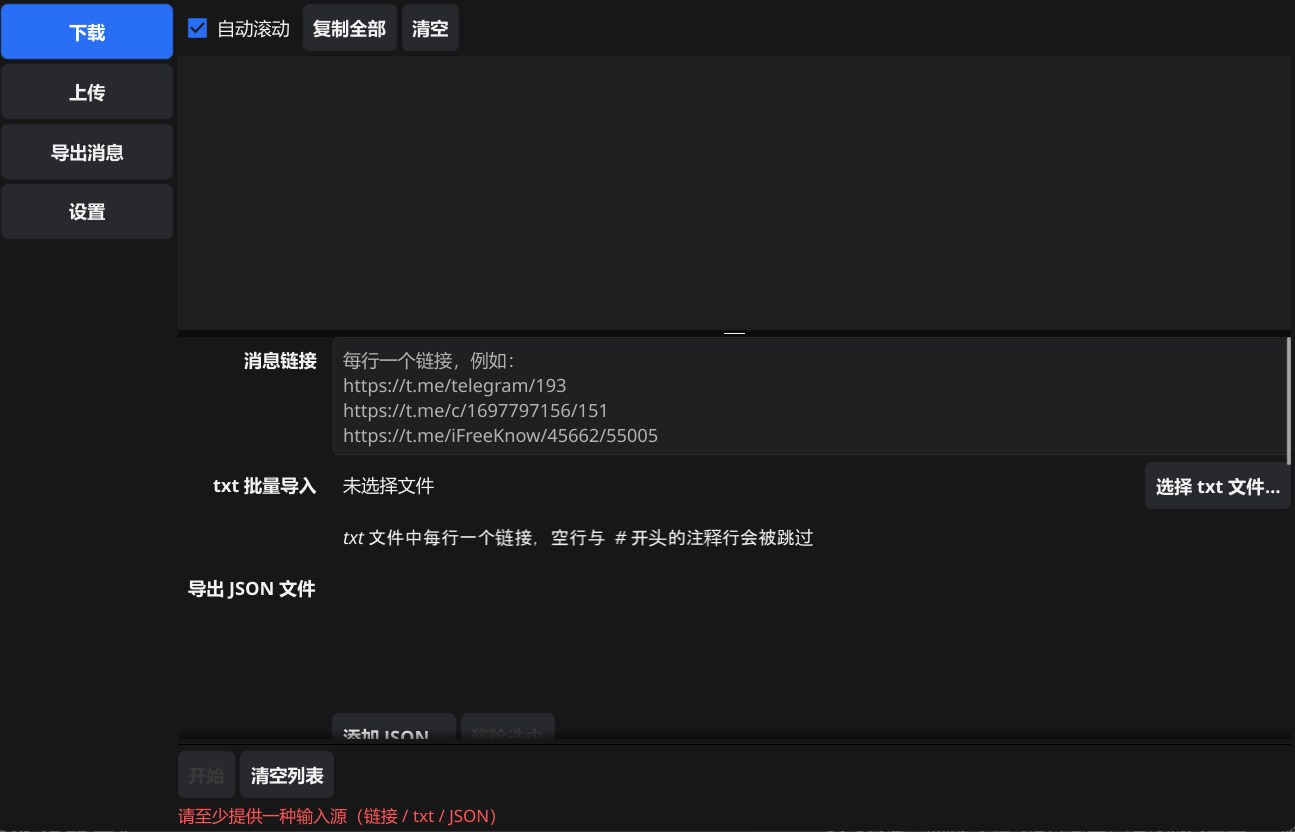
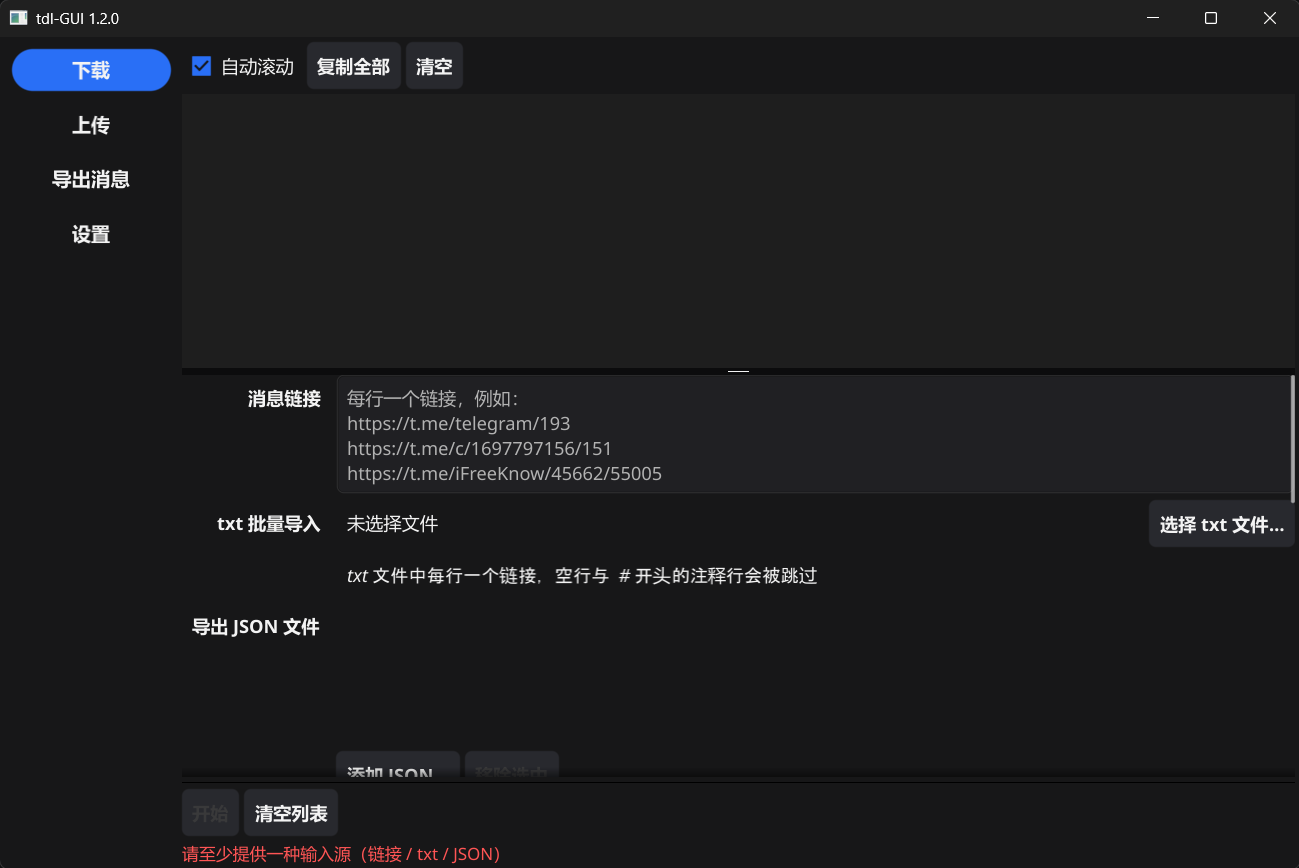
更新README

diff --git a/README_Eng.md b/README_Eng.md
@@ -1,0 +1,215 @@
+# tdl-GUI
+
+[简体中文](README.md) | [English](README_Eng.md)
+
+A **Windows desktop graphical front-end** for [tdl](https://github.com/iyear/tdl) (Telegram Downloader).
+
+This project reimplements none of tdl's functionality. It does exactly two things: **assembling the form fields into a tdl command**, and **running `tdl.exe` while echoing its output in real time**.
+
+> UI screenshots:
+> ![Download page](download_page_eng.png)
+> ![Upload page](upload_page_eng.png)
+> ![Export page](export_page_eng.png)
+
+> **Platform limitation**: Windows only. The program relies on Windows-specific features such as `CREATE_NO_WINDOW`, `CREATE_NEW_CONSOLE` and `taskkill`, so other platforms are not supported for now.
+
+## Table of Contents
+
+- [tdl-GUI](#tdl-gui)
+  - [Table of Contents](#table-of-contents)
+  - [Overview](#overview)
+  - [Quick Start](#quick-start)
+    - [1. Prepare tdl.exe](#1-prepare-tdlexe)
+    - [2. Launch tdl-GUI](#2-launch-tdl-gui)
+    - [3. Configure tdl.exe](#3-configure-tdlexe)
+    - [4. Log In to Your Account](#4-log-in-to-your-account)
+    - [5. Download Files](#5-download-files)
+    - [6. Upload Files](#6-upload-files)
+    - [7. Export Messages](#7-export-messages)
+    - [8. Running and Aborting](#8-running-and-aborting)
+  - [Based on the tdl Project](#based-on-the-tdl-project)
+  - [Language and Technology Stack](#language-and-technology-stack)
+  - [Application Architecture](#application-architecture)
+  - [Features at a Glance](#features-at-a-glance)
+  - [Building from Source](#building-from-source)
+  - [FAQ](#faq)
+  - [Disclaimer and Acknowledgements](#disclaimer-and-acknowledgements)
+
+## Overview
+
+- **No need to memorize command lines**: downloads, uploads, message exports, login and global parameters are all configured through the GUI.
+- **Real-time log**: a black terminal-style log pane that streams tdl output line by line; supports in-place refresh of `\r` progress lines, correct alignment of CJK / full-width characters, and red highlighting for errors (buffer capped at 5000 lines).
+- **Controllable tasks**: one-click **[Abort]** (kills the whole process tree), global controls locked while a task is running, confirmation before closing the window during a task, and a 5-second watchdog warning on abort.
+- **Input validation**: when input is invalid, the **[Start]** button is disabled and the reason is shown in red; the UI and the final command share exactly the same validation logic.
+- **Persisted configuration**: global parameters and form tuning options are saved automatically; the target scope of unfinished tasks (links, file lists, etc.) is deliberately not restored, so nothing is run by accident on the next launch.
+- **Command echo**: the full command is printed to the log pane before execution, with the login password masked as `***`.
+
+## Quick Start
+
+### 1. Prepare tdl.exe
+
+Download the Windows build from <https://github.com/iyear/tdl/releases> and extract it to any directory (version 0.20.4, or something close to it, is recommended).
+
+### 2. Launch tdl-GUI
+
+Double-click `tdl-gui.exe`. On first launch the app automatically switches to the **[Settings]** page and prompts you to choose the `tdl.exe` path.
+
+### 3. Configure tdl.exe
+
+Go to the **[Settings]** page → Global Parameters → click Browse to select the `tdl.exe` path → click `[Test]`. If the tdl version information appears in the log pane, the setup works.
+
+### 4. Log In to Your Account
+
+**[Settings]** page → Login Management → click `[Login]`; the program opens a new terminal window:
+
+- In that window, use the arrow keys to select the account to log in with;
+- Only the Telegram desktop client method is supported, and the client must come from the official Telegram website (not the app-store version);
+- After logging in, enter the namespace you used into **[Current Namespace]** on the settings page.
+
+**Multiple accounts**: use a different namespace for each account (e.g. `acc1`, `acc2`); each namespace corresponds to an independent account/session.
+
+### 5. Download Files
+
+**[Download]** page: paste message links (one per line, both `https://t.me/...` and `tg://` are supported), or bulk-import from a txt / JSON file → set the download directory, thread count and concurrency → choose the resume strategy → click **[Start]**.
+
+Notes:
+
+- Choose **explicitly** between "resume" and "restart" for the resume strategy: in the default mode tdl asks interactively when it detects an unfinished task, and a GUI child process cannot provide input.
+- Enabling "rewrite extensions" rewrites extensions based on the file-header MIME type (for example, `.apk` may become `.zip`).
+- For large downloads, enabling Takeout mode is recommended to reduce the chance of hitting a flood wait.
+- txt import rules: one link per line; blank lines and lines starting with `#` are skipped.
+
+### 6. Upload Files
+
+**[Upload]** page: add files/directories → fill in the target chat (`-c`), and the topic ID as well if you want to post to a forum topic → optionally captions and extension filters → click **[Start]**.
+
+Notes: enabling "delete local files after upload" (`--rm`) is irreversible and requires a second confirmation before execution; "message routing" and "target chat/topic" are mutually exclusive.
+
+### 7. Export Messages
+
+**[Export]** page: fill in the target chat → choose the export type (by time / by message ID / latest N messages) and range → choose the output file → click **[Start]**.
+
+### 8. Running and Aborting
+
+- While a task is running, the log pane above streams the output in real time; clicking the red **[Abort]** button force-stops the task (killing the whole process tree).
+- Closing the window while a task is running asks for confirmation; once confirmed, the task is aborted automatically and the app exits.
+
+## Based on the tdl Project
+
+- All actual capabilities of this project are provided by [tdl](https://github.com/iyear/tdl); the GUI only assembles arguments and runs the process, and **contains no Telegram protocol implementation whatsoever**.
+- **You must provide `tdl.exe` yourself** (this project does not bundle it): download the Windows build from [tdl Releases](https://github.com/iyear/tdl/releases) and specify its path on the GUI settings page.
+- Command arguments and default values are aligned with **tdl 0.20.4** (such as `--reconnect-timeout 5m`, `--pool 8`, `--delay 0s`), and are appended automatically by this project when a task runs.
+- tdl subcommands currently covered: `login`, `dl`, `up`, `chat export`, `version`.
+
+> This project is a third-party front-end with no affiliation to the tdl maintainers; see the [Disclaimer](#disclaimer-and-acknowledgements) at the end for details.
+
+## Language and Technology Stack
+
+| Item | Details |
+| --- | --- |
+| Language | Go 1.27.1 |
+| GUI framework | [Fyne](https://fyne.io/) v2.8.1 (native OpenGL window, not a WebView) |
+| Other dependencies | [mattn/go-runewidth](https://github.com/mattn/go-runewidth) (wide-character column width calculation in the log pane) |
+| Configuration storage | Fyne Preferences; on Windows usually `%AppData%\fyne\tdl-gui\preferences.json` |
+| Supported platform | Windows only |
+
+## Application Architecture
+
+```
+tdl-GUI/
+├── main.go                      Entry point: create the Fyne App, build the window, enter the event loop
+├── internal/
+│   ├── ui/                      UI layer (the only layer that depends on Fyne)
+│   │   ├── app.go               Main window, left navigation, log/page split, first-launch guide, close interception
+│   │   ├── task.go              Task state machine: start/abort/exit code, global control lock, abort watchdog
+│   │   ├── logview.go           Terminal-style log pane: streaming output, progress-line overwrite, wide-char alignment, copy/clear
+│   │   ├── page_download.go     Download page
+│   │   ├── page_upload.go       Upload page
+│   │   ├── page_export.go       Message export page
+│   │   └── page_settings.go     Settings page (UI language + global parameters + login management)
+│   ├── cmdgen/                  Form structs → tdl command-line arguments, including all input validation (zero GUI dependencies)
+│   ├── runner/                  Child process lifecycle: start, stdout/stderr parsing, ANSI stripping, abort process tree
+│   ├── store/                   Fyne Preferences wrapper, key naming convention `<page>.<field>`
+│   ├── i18n/                    Localization (the Chinese text is the key; locales/*.json provides translations)
+│   └── txtload/                 txt link-list parsing (tdl's native `-f` accepts JSON only)
+└── go.mod
+```
+
+Layering and call relationships:
+
+```
+ui ──┬─► cmdgen   build command + validate
+     ├─► runner   start process / parse output stream / abort
+     ├─► store    read and write configuration
+     └─► txtload  parse txt link files
+```
+
+Key design decisions:
+
+- **Single source of validation**: the enabled state of UI controls and the final executed command are produced by the same build function in `cmdgen`, avoiding the mismatch where the UI allows something the command rejects.
+- **Process-level integration**: tdl's source is neither modified nor wrapped; only `tdl.exe` is run. stdout and stderr are merged and parsed, treating `\r` as a progress refresh and `\n` as a complete line.
+- **Abort means killing the tree**: the whole process tree is ended with `taskkill /T /F`, falling back to a forced kill on failure, with a 5-second watchdog warning.
+- **Special handling for login**: `tdl login` needs interactive input, so the program runs it in a real terminal window via the Windows `CreateProcess` + `CREATE_NEW_CONSOLE`.
+- **Input length protection**: a single download is capped at 800 links to avoid hitting the Windows command-line length limit (about 32K).
+
+## Features at a Glance
+
+| Module | Capabilities |
+| --- | --- |
+| Download `dl` | Multiple links / txt bulk import / JSON file import; download directory, threads, concurrency; resume strategy (default / resume / restart); extension whitelist and blacklist; filename template; album grouping, skip same-name files, Takeout, HTTP serve mode |
+| Upload `up` | Bulk upload of files or directories; target chat and forum topic; message routing; captions; extension filtering; delete local files after upload (with a second confirmation); photo mode |
+| Export `chat export` | Three export types (by time / by message ID / latest N messages) with ranges; filter expressions; attached content / export everything / raw structure |
+| Login `login` | Desktop-client login (choose the account with arrow keys in a new terminal window); multiple accounts managed through namespaces (`-n`), where each namespace is an independent account |
+| Settings | UI language (follow system / Simplified Chinese / English, **takes effect after restart**), tdl.exe path, current namespace, proxy, NTP server, reconnect timeout, DC connection pool, delay between tasks, storage, debug mode, disable progress telemetry; the `[Test]` button runs `tdl version` to verify availability |
+
+## Building from Source
+
+Requirements: Windows + Go 1.27.1 or later.
+
+```powershell
+go build -ldflags "-H windowsgui -s -w -X main.version=x.y.z" -o tdl-gui.exe .
+```
+
+Flag reference:
+
+- `-H windowsgui`: start in the GUI subsystem so no extra console window appears;
+- `-s -w`: drop the symbol table and debug information to reduce the executable size;
+- `-X main.version=x.y.z`: inject the version number, shown in the window title `tdl-GUI <version>`; see `main.go`--version for the actual version number.
+
+Run the tests (some tests really start system commands, so they only work on Windows):
+
+```powershell
+go test ./...
+```
+
+> Note: `internal/runner/console_windows.go` depends on the Windows API and **cannot be compiled on other platforms**.
+
+## FAQ
+
+**Q: Do I need to install tdl separately?**
+Yes. This project does not include tdl itself; download `tdl.exe` yourself and specify its path on the settings page.
+
+**Q: Why are there no "account list / switch default account / logout" buttons?**
+The current tdl version (0.20.4) provides no such commands, so this page offers no such buttons. Use namespaces to switch between multiple accounts.
+
+**Q: Will tdl remember the global parameters from the settings page?**
+No. Global parameters such as proxy, NTP and connection pool are appended automatically by this application on every task run; they are not written into tdl's own configuration.
+
+**Q: Where is the configuration stored?**
+It is managed by Fyne Preferences, usually `%AppData%\fyne\tdl-gui\preferences.json` on Windows. Note that login passwords are stored there in plain text, so keep your local environment secure.
+
+**Q: Does it restore the task left unfinished last time?**
+No. Task target-scope inputs (links, txt/JSON paths, upload paths, chats, output files, etc.) are not persisted and are cleared at startup; all other tuning options are restored automatically.
+
+**Q: Can it forward messages / use other tdl subcommands?**
+Not for now. Only `login`, `dl`, `up`, `chat export` and `version` are covered.
+
+## Disclaimer and Acknowledgements
+
+This project is a **third-party graphical front-end** for [tdl](https://github.com/iyear/tdl). It is not an official project and has no affiliation with the tdl authors or with Telegram. It implements no Telegram protocol and bundles no tdl binary; all network behavior and data processing are performed by tdl. Any consequences of using this software are borne solely by the user, and you must comply with Telegram's Terms of Service and your local laws and regulations.
+
+Acknowledgements:
+
+- [iyear/tdl](https://github.com/iyear/tdl): the source of all underlying capabilities of this project;
+- [Fyne](https://fyne.io/): the Go cross-platform GUI framework;
+- [mattn/go-runewidth](https://github.com/mattn/go-runewidth): character width calculation in the log pane.

diff --git a/README.md b/README.md
@@ -1,5 +1,7 @@
 # tdl-GUI
 
+[简体中文](README.md) | [English](README_Eng.md)
+
 [tdl](https://github.com/iyear/tdl)（Telegram Downloader）的 **Windows 桌面图形前端**。
 
 本项目不重新实现 tdl 的任何功能，只做两件事：把界面表单**拼装成 tdl 命令**，并**运行 `tdl.exe`、实时回显输出**。
@@ -8,8 +10,6 @@
 > ![下载界面](download_page.png)
 > ![上传界面](upload_page.png)
 > ![导出界面](export_page.png)
-> <!-- 补图后取消下一行注释并替换为实际路径： -->
-> <!-- ![界面截图](doc/screenshot.png) -->
 
 > **平台限制**：仅支持 Windows。程序依赖 `CREATE_NO_WINDOW`、`CREATE_NEW_CONSOLE`、`taskkill` 等 Windows 特性，暂不支持其他平台。
 
